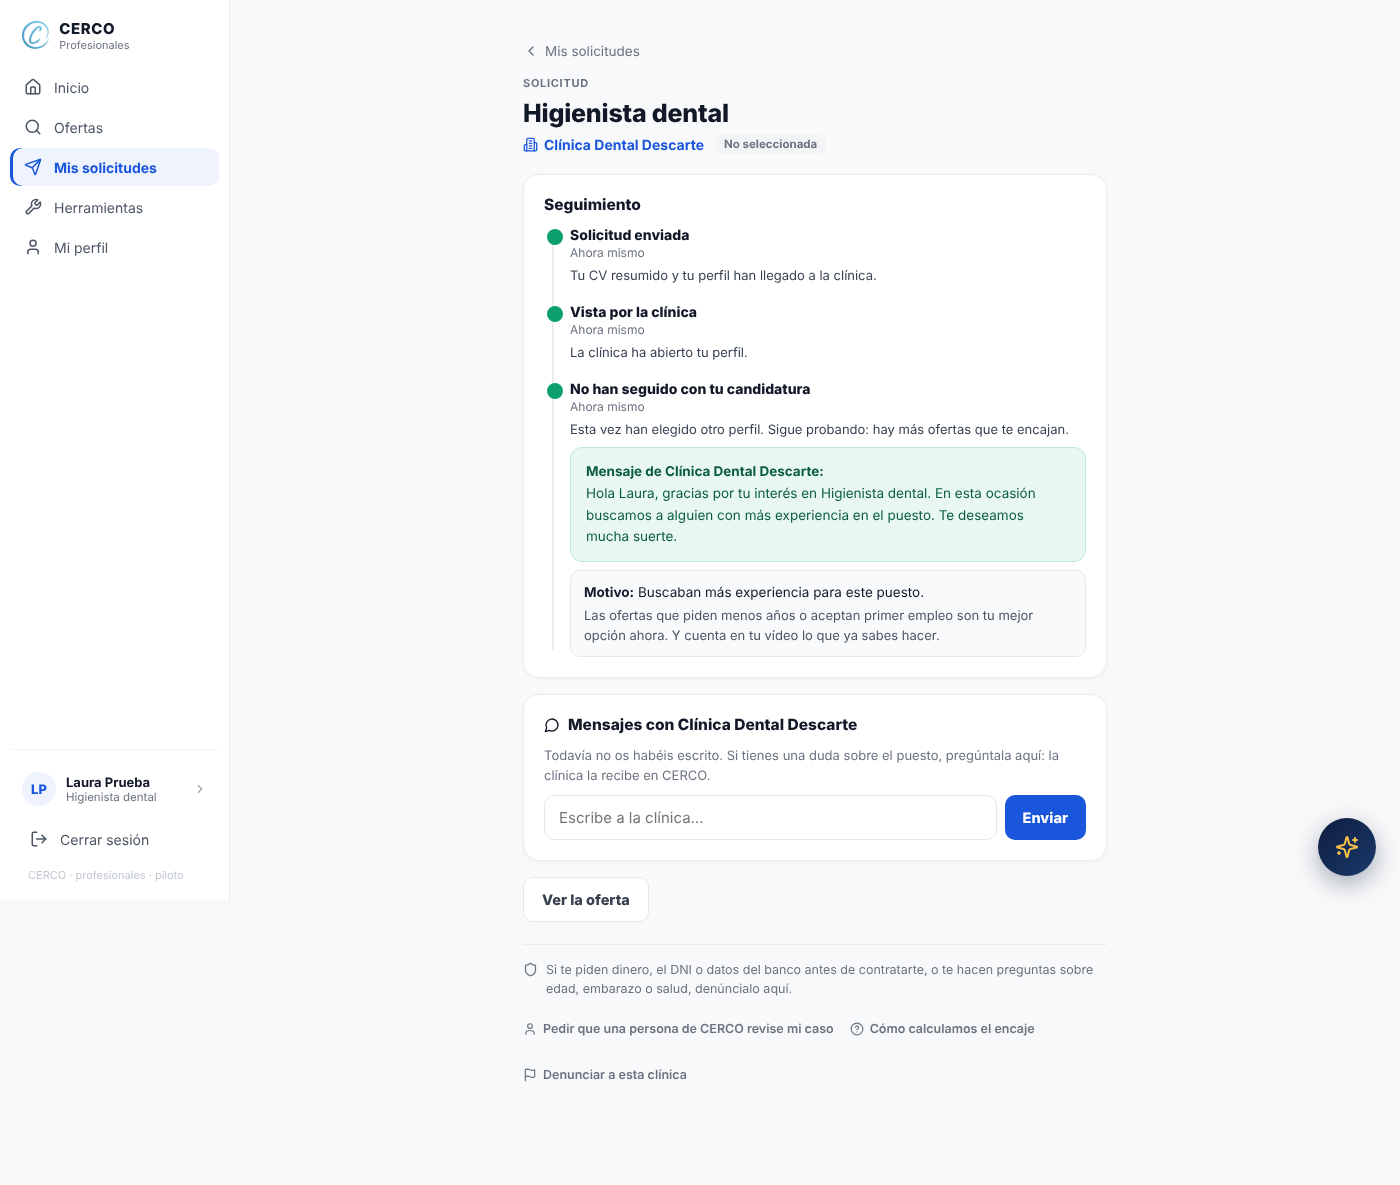
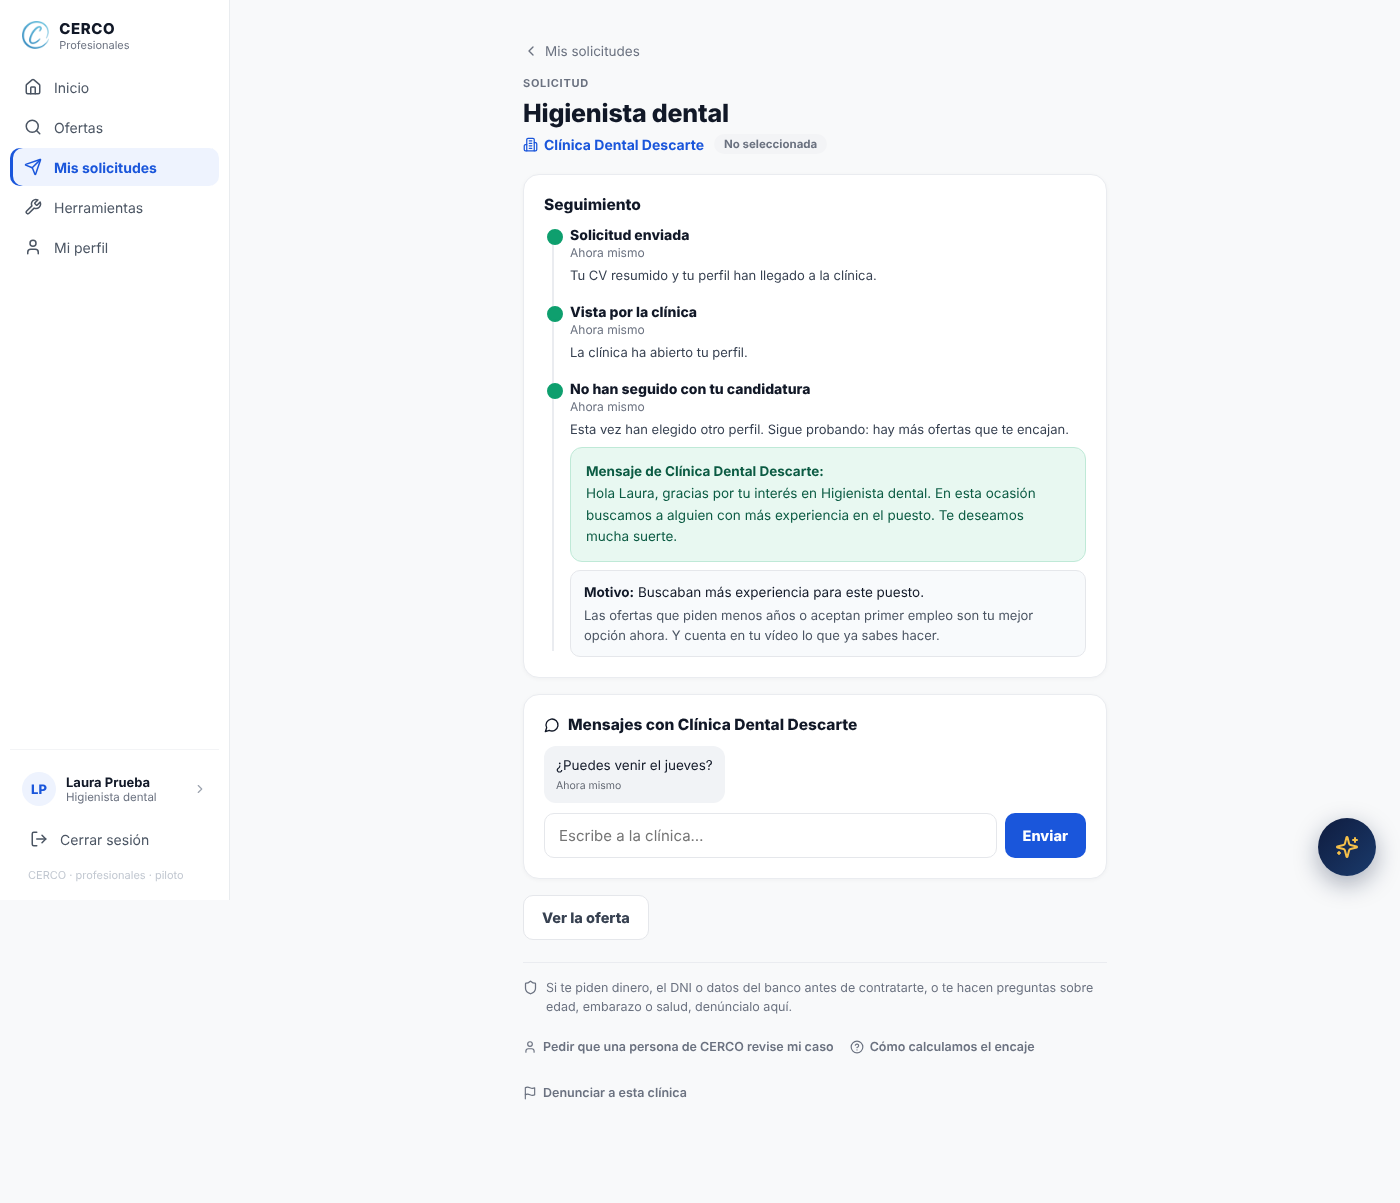
Pruebas: capturas en móvil más estables y capturas nuevas de los mensajes
La captura se hace después de subir arriba del todo dos veces (algo podía
acabar de cargar y mover la página un píxel). Las capturas de la prueba de
descartar cambian porque ahora incluyen los mensajes entre clínica y
profesional.

Claude-Session: https://claude.ai/code/session_01L5qSpH5ECCjMh1xfSpjWDJ

diff --git a/pruebas/apoyo/entorno.js b/pruebas/apoyo/entorno.js
@@ -137,10 +137,14 @@ async function capturar(page, nombre, opciones = {}) {
   } else {
     // Si no, todo lo que se desplaza vuelve arriba del todo (en el móvil la web
     // se desplaza por dentro y cada vez quedaría a una altura distinta).
-    await page.evaluate(() => {
-      window.scrollTo(0, 0);
-      document.querySelectorAll('*').forEach((el) => { if (el.scrollTop > 0) el.scrollTop = 0; });
-    });
+    // Dos veces, por si algo acaba de cargar y mueve la página
+    for (let i = 0; i < 2; i++) {
+      await page.evaluate(() => {
+        window.scrollTo(0, 0);
+        document.querySelectorAll('*').forEach((el) => { if (el.scrollTop > 0) el.scrollTop = 0; });
+      });
+      await page.waitForTimeout(300);
+    }
   }
   await page.waitForTimeout(400);
   await base.expect(page).toHaveScreenshot(`${nombre}.png`, {
